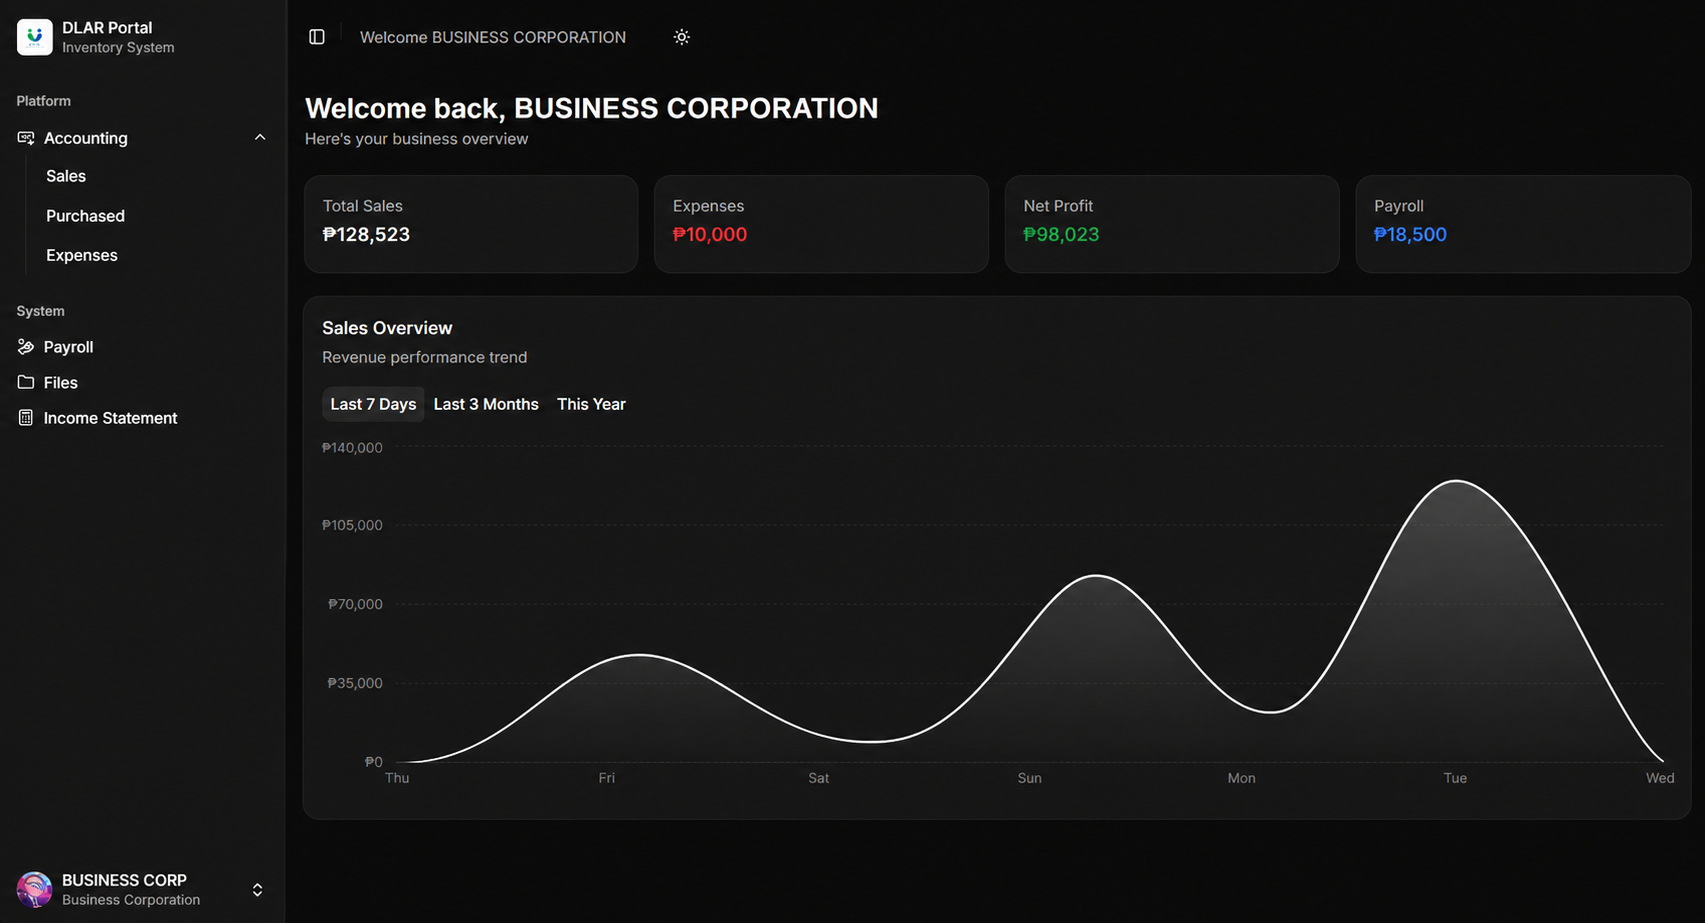
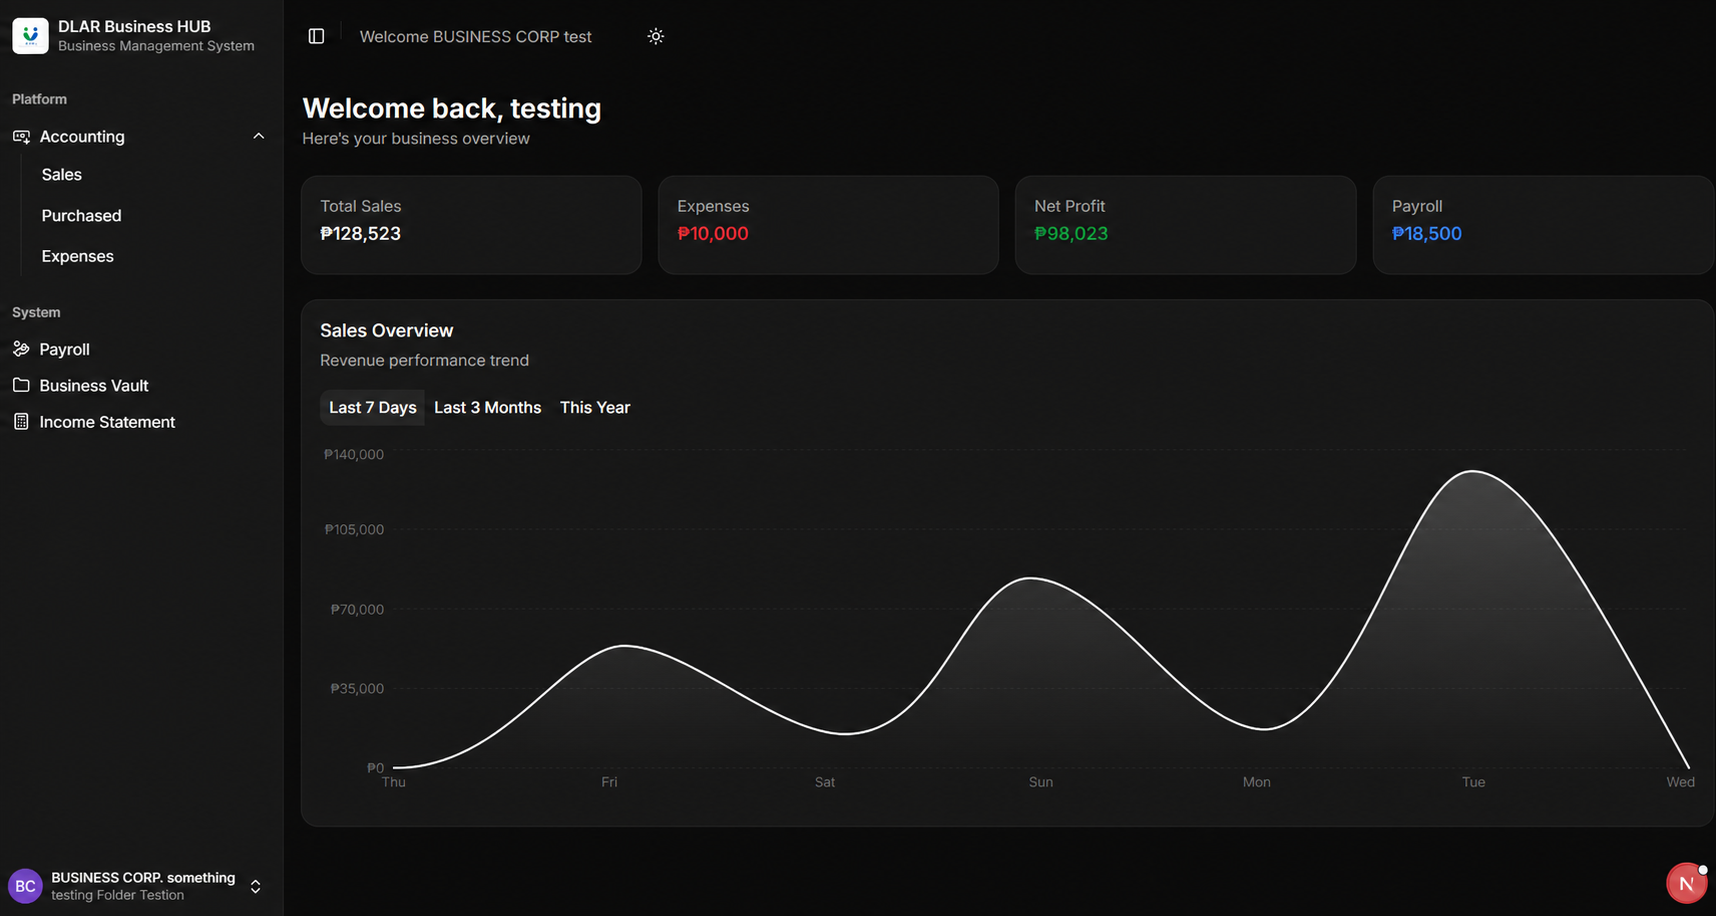
change dashboard preview

diff --git a/components/nav-main.tsx b/components/nav-main.tsx
@@ -1,43 +1,3 @@
-// "use client";
-
-// import Link from "next/link";
-// import {
-//   SidebarGroup,
-//   SidebarGroupLabel,
-//   SidebarMenu,
-//   SidebarMenuButton,
-//   SidebarMenuItem,
-// } from "@/components/ui/sidebar";
-
-// export function NavMain({
-//   items,
-// }: {
-//   items: {
-//     title: string;
-//     url: string;
-//     icon?: React.ReactNode;
-//   }[];
-// }) {
-//   return (
-//     <SidebarGroup>
-//       <SidebarGroupLabel>Platform</SidebarGroupLabel>
-
-//       <SidebarMenu>
-//         {items.map((item) => (
-//           <SidebarMenuItem key={item.title}>
-//             <SidebarMenuButton asChild tooltip={item.title}>
-//               <Link href={item.url}>
-//                 {item.icon}
-//                 <span>{item.title}</span>
-//               </Link>
-//             </SidebarMenuButton>
-//           </SidebarMenuItem>
-//         ))}
-//       </SidebarMenu>
-//     </SidebarGroup>
-//   );
-// }
-
 "use client";
 
 import Link from "next/link";